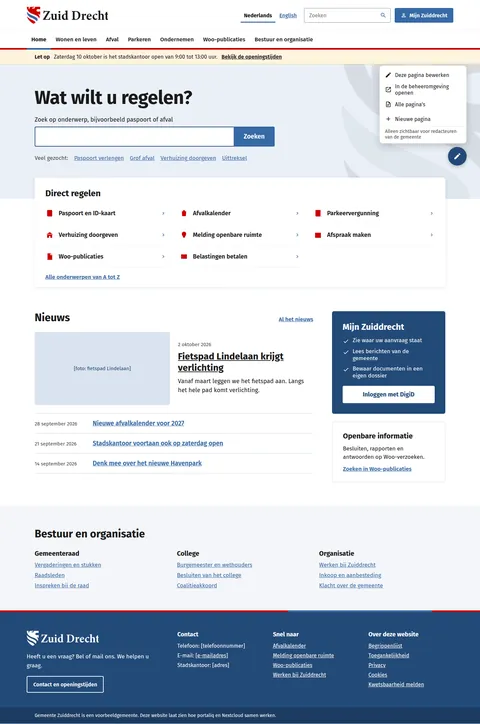
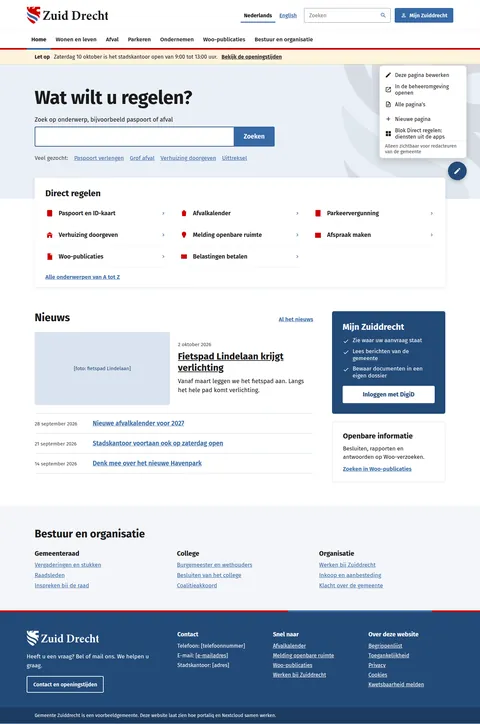
feat(screens): search boards name their portaliq rows; Zoeken pages with a shareable link, Publicatie shows every property
Zoeken: page links carry the query and page number with a Pagina x van y line, and the organisation filter says the search covers the partner organisations' publications. Publicatie: the property list grows with a reference, a decision date, a source page (a web address rendered as a link) and a related publication. Home: the editor menu names the Direct regelen block as the contributed-services block. The notes of Zoeken, ZoekenGeenTreffers, Publicatie and Home name the matrix rows and specs they draw.

Portaliq coverage matrix, gap list (b), lane pt-boards-b.

Changed region(s): [[0.7812, 0.1519, 0.9688, 0.2735]]

diff --git a/preview/screens/boards/Zoeken.html b/preview/screens/boards/Zoeken.html
@@ -126,6 +126,7 @@ footer a{color:#ffffff}footer a:hover{color:#dfe8f3}
         </fieldset>
         <fieldset style="border: 0; margin: 0; padding: 0; display: flex; flex-direction: column; gap: 10px">
           <legend style="font-size: 18px; font-weight: 600; margin-bottom: 8px">Organisatie</legend>
+          <span style="font-size: 15px; color: var(--sc-site-muted, #4a4a4a)">U zoekt in de publicaties van de gemeente en van de organisaties waarmee zij samenwerkt.</span>
           
             <label style="display: flex; gap: 10px; align-items: center; font-size: 17px"><input type="checkbox" style="width: 22px; height: 22px; accent-color: var(--sc-primary, #3669a5)"> Gemeente Zuiddrecht (10)</label>
           
@@ -214,9 +215,11 @@ footer a{color:#ffffff}footer a:hover{color:#dfe8f3}
           
         </ul>
         <nav aria-label="Paginering" style="display: flex; gap: 8px; flex-wrap: wrap">
-          <a href="#" aria-current="page" style="min-width: 44px; height: 44px; display: inline-flex; align-items: center; justify-content: center; border-radius: 4px; background: var(--sc-primary, #3669a5); color: #ffffff; font-weight: 600; text-decoration: none">1</a>
-          <a href="#" style="min-width: 44px; height: 44px; display: inline-flex; align-items: center; justify-content: center; border-radius: 4px; border: 1px solid var(--sc-site-border, #d3d8df); font-weight: 600">2</a>
-          <a href="#" style="min-width: 44px; height: 44px; padding: 0 14px; display: inline-flex; align-items: center; justify-content: center; border-radius: 4px; border: 1px solid var(--sc-site-border, #d3d8df); font-weight: 600">Volgende</a>
+          <a href="?q=fietspad+Lindelaan&amp;pagina=1" aria-current="page" style="min-width: 44px; height: 44px; display: inline-flex; align-items: center; justify-content: center; border-radius: 4px; background: var(--sc-primary, #3669a5); color: #ffffff; font-weight: 600; text-decoration: none">1</a>
+          <a href="?q=fietspad+Lindelaan&amp;pagina=2" style="min-width: 44px; height: 44px; display: inline-flex; align-items: center; justify-content: center; border-radius: 4px; border: 1px solid var(--sc-site-border, #d3d8df); font-weight: 600">2</a>
+          <a href="?q=fietspad+Lindelaan&amp;pagina=3" style="min-width: 44px; height: 44px; display: inline-flex; align-items: center; justify-content: center; border-radius: 4px; border: 1px solid var(--sc-site-border, #d3d8df); font-weight: 600">3</a>
+          <a href="?q=fietspad+Lindelaan&amp;pagina=2" style="min-width: 44px; height: 44px; padding: 0 14px; display: inline-flex; align-items: center; justify-content: center; border-radius: 4px; border: 1px solid var(--sc-site-border, #d3d8df); font-weight: 600">Volgende</a>
+          <span style="align-self: center; font-size: 15px; color: var(--sc-site-muted, #4a4a4a)">Pagina 1 van 3. De link van deze pagina kunt u bewaren of delen.</span>
         </nav>
         <form aria-labelledby="fb" style="margin-top: 16px; padding: 24px; border-radius: 6px; background: var(--sc-site-ground, #f4f6f9); display: flex; flex-direction: column; gap: 14px">
           <fieldset style="border: 0; margin: 0; padding: 0; display: flex; flex-wrap: wrap; align-items: center; gap: 12px 20px">

diff --git a/screens-src/zuiddrecht/Zoeken.dc.html b/screens-src/zuiddrecht/Zoeken.dc.html
@@ -48,6 +48,7 @@ a{color:#3669a5}a:hover{color:#234a78}
         </fieldset>
         <fieldset style="border: 0; margin: 0; padding: 0; display: flex; flex-direction: column; gap: 10px">
           <legend style="font-size: 18px; font-weight: 600; margin-bottom: 8px">Organisatie</legend>
+          <span style="font-size: 15px; color: #4a4a4a">U zoekt in de publicaties van de gemeente en van de organisaties waarmee zij samenwerkt.</span>
           <sc-for list="{{ orgs }}" as="o" hint-placeholder-count="3">
             <label style="display: flex; gap: 10px; align-items: center; font-size: 17px"><input type="checkbox" style="width: 22px; height: 22px; accent-color: #3669a5"> {{ o }}</label>
           </sc-for>
@@ -88,9 +89,11 @@ a{color:#3669a5}a:hover{color:#234a78}
           </sc-for>
         </ul>
         <nav aria-label="Paginering" style="display: flex; gap: 8px; flex-wrap: wrap">
-          <a href="#" aria-current="page" style="min-width: 44px; height: 44px; display: inline-flex; align-items: center; justify-content: center; border-radius: 4px; background: #3669a5; color: #ffffff; font-weight: 600; text-decoration: none">1</a>
-          <a href="#" style="min-width: 44px; height: 44px; display: inline-flex; align-items: center; justify-content: center; border-radius: 4px; border: 1px solid #d3d8df; font-weight: 600">2</a>
-          <a href="#" style="min-width: 44px; height: 44px; padding: 0 14px; display: inline-flex; align-items: center; justify-content: center; border-radius: 4px; border: 1px solid #d3d8df; font-weight: 600">Volgende</a>
+          <a href="?q=fietspad+Lindelaan&amp;pagina=1" aria-current="page" style="min-width: 44px; height: 44px; display: inline-flex; align-items: center; justify-content: center; border-radius: 4px; background: #3669a5; color: #ffffff; font-weight: 600; text-decoration: none">1</a>
+          <a href="?q=fietspad+Lindelaan&amp;pagina=2" style="min-width: 44px; height: 44px; display: inline-flex; align-items: center; justify-content: center; border-radius: 4px; border: 1px solid #d3d8df; font-weight: 600">2</a>
+          <a href="?q=fietspad+Lindelaan&amp;pagina=3" style="min-width: 44px; height: 44px; display: inline-flex; align-items: center; justify-content: center; border-radius: 4px; border: 1px solid #d3d8df; font-weight: 600">3</a>
+          <a href="?q=fietspad+Lindelaan&amp;pagina=2" style="min-width: 44px; height: 44px; padding: 0 14px; display: inline-flex; align-items: center; justify-content: center; border-radius: 4px; border: 1px solid #d3d8df; font-weight: 600">Volgende</a>
+          <span style="align-self: center; font-size: 15px; color: #4a4a4a">Pagina 1 van 3. De link van deze pagina kunt u bewaren of delen.</span>
         </nav>
         <form aria-labelledby="fb" style="margin-top: 16px; padding: 24px; border-radius: 6px; background: #f4f6f9; display: flex; flex-direction: column; gap: 14px">
           <fieldset style="border: 0; margin: 0; padding: 0; display: flex; flex-wrap: wrap; align-items: center; gap: 12px 20px">

diff --git a/preview/screens/boards/Home.html b/preview/screens/boards/Home.html
@@ -304,6 +304,7 @@ footer a{color:#ffffff}footer a:hover{color:#dfe8f3}
       <li role="none"><a role="menuitem" href="PtPagina.html" style="display: flex; align-items: center; gap: 10px; height: 44px; padding: 0 16px; color: var(--sc-site-ink, #1a1a1a); text-decoration: none; font-size: 16px"><svg width="20" height="20" viewbox="0 0 24 24" fill="currentColor" aria-hidden="true" style="flex: none"><path d="M14,3V5H17.59L7.76,14.83L9.17,16.24L19,6.41V10H21V3M19,19H5V5H12V3H5C3.89,3 3,3.9 3,5V19A2,2 0 0,0 5,21H19A2,2 0 0,0 21,19V12H19V19Z"></path></svg>In de beheeromgeving openen</a></li>
       <li role="none"><a role="menuitem" href="PtPortal.html" style="display: flex; align-items: center; gap: 10px; height: 44px; padding: 0 16px; color: var(--sc-site-ink, #1a1a1a); text-decoration: none; font-size: 16px"><svg width="20" height="20" viewbox="0 0 24 24" fill="currentColor" aria-hidden="true" style="flex: none"><path d="M6,2A2,2 0 0,0 4,4V20A2,2 0 0,0 6,22H18A2,2 0 0,0 20,20V8L14,2H6M6,4H13V9H18V20H6V4M8,12V14H16V12H8M8,16V18H13V16H8Z"></path></svg>Alle pagina's</a></li>
       <li role="none"><a role="menuitem" href="Editor.html" style="display: flex; align-items: center; gap: 10px; height: 44px; padding: 0 16px; color: var(--sc-site-ink, #1a1a1a); text-decoration: none; font-size: 16px"><svg width="20" height="20" viewbox="0 0 24 24" fill="currentColor" aria-hidden="true" style="flex: none"><path d="M19,13H13V19H11V13H5V11H11V5H13V11H19V13Z"></path></svg>Nieuwe pagina</a></li>
+      <li role="none"><a role="menuitem" href="Editor.html" style="display: flex; align-items: center; gap: 10px; height: 44px; padding: 0 16px; color: var(--sc-site-ink, #1a1a1a); text-decoration: none; font-size: 16px"><svg width="20" height="20" viewbox="0 0 24 24" fill="currentColor" aria-hidden="true" style="flex: none"><path d="M3,3H11V11H3V3M13,3H21V11H13V3M3,13H11V21H3V13M13,13H21V21H13V13Z"></path></svg>Blok Direct regelen: diensten uit de apps</a></li>
       <li role="none" style="padding: 6px 16px 4px; border-top: 1px solid var(--sc-work-line, #e4e6ea); font-size: 14px; color: var(--sc-site-muted, #4a4a4a)">Alleen zichtbaar voor redacteuren van de gemeente</li>
     </ul>
     <button type="button" aria-label="Deze site bewerken" aria-expanded="true" style="width: 56px; height: 56px; border: 0; border-radius: 28px; background: var(--sc-primary-deep, #234a78); color: #ffffff; display: flex; align-items: center; justify-content: center; box-shadow: 0 4px 12px rgba(0,0,0,0.25)"><svg width="24" height="24" viewbox="0 0 24 24" fill="currentColor" aria-hidden="true" style="flex: none"><path d="M20.71,7.04C21.1,6.65 21.1,6 20.71,5.63L18.37,3.29C18,2.9 17.35,2.9 16.96,3.29L15.12,5.12L18.87,8.87M3,17.25V21H6.75L17.81,9.93L14.06,6.18L3,17.25Z"></path></svg></button>

diff --git a/screens-src/zuiddrecht/Home.dc.html b/screens-src/zuiddrecht/Home.dc.html
@@ -118,6 +118,7 @@ a{color:#3669a5}a:hover{color:#234a78}
       <li role="none"><a role="menuitem" href="PtPagina.dc.html" style="display: flex; align-items: center; gap: 10px; height: 44px; padding: 0 16px; color: #1a1a1a; text-decoration: none; font-size: 16px"><svg width="20" height="20" viewBox="0 0 24 24" fill="currentColor" aria-hidden="true" style="flex: none"><path d="M14,3V5H17.59L7.76,14.83L9.17,16.24L19,6.41V10H21V3M19,19H5V5H12V3H5C3.89,3 3,3.9 3,5V19A2,2 0 0,0 5,21H19A2,2 0 0,0 21,19V12H19V19Z"></path></svg>In de beheeromgeving openen</a></li>
       <li role="none"><a role="menuitem" href="PtPortal.dc.html" style="display: flex; align-items: center; gap: 10px; height: 44px; padding: 0 16px; color: #1a1a1a; text-decoration: none; font-size: 16px"><svg width="20" height="20" viewBox="0 0 24 24" fill="currentColor" aria-hidden="true" style="flex: none"><path d="M6,2A2,2 0 0,0 4,4V20A2,2 0 0,0 6,22H18A2,2 0 0,0 20,20V8L14,2H6M6,4H13V9H18V20H6V4M8,12V14H16V12H8M8,16V18H13V16H8Z"></path></svg>Alle pagina's</a></li>
       <li role="none"><a role="menuitem" href="Editor.dc.html" style="display: flex; align-items: center; gap: 10px; height: 44px; padding: 0 16px; color: #1a1a1a; text-decoration: none; font-size: 16px"><svg width="20" height="20" viewBox="0 0 24 24" fill="currentColor" aria-hidden="true" style="flex: none"><path d="M19,13H13V19H11V13H5V11H11V5H13V11H19V13Z"></path></svg>Nieuwe pagina</a></li>
+      <li role="none"><a role="menuitem" href="Editor.dc.html" style="display: flex; align-items: center; gap: 10px; height: 44px; padding: 0 16px; color: #1a1a1a; text-decoration: none; font-size: 16px"><svg width="20" height="20" viewBox="0 0 24 24" fill="currentColor" aria-hidden="true" style="flex: none"><path d="M3,3H11V11H3V3M13,3H21V11H13V3M3,13H11V21H3V13M13,13H21V21H13V13Z"></path></svg>Blok Direct regelen: diensten uit de apps</a></li>
       <li role="none" style="padding: 6px 16px 4px; border-top: 1px solid #e4e6ea; font-size: 14px; color: #4a4a4a">Alleen zichtbaar voor redacteuren van de gemeente</li>
     </ul>
     <button type="button" aria-label="Deze site bewerken" aria-expanded="true" style="width: 56px; height: 56px; border: 0; border-radius: 28px; background: #234a78; color: #ffffff; display: flex; align-items: center; justify-content: center; box-shadow: 0 4px 12px rgba(0,0,0,0.25)"><svg width="24" height="24" viewBox="0 0 24 24" fill="currentColor" aria-hidden="true" style="flex: none"><path d="M20.71,7.04C21.1,6.65 21.1,6 20.71,5.63L18.37,3.29C18,2.9 17.35,2.9 16.96,3.29L15.12,5.12L18.87,8.87M3,17.25V21H6.75L17.81,9.93L14.06,6.18L3,17.25Z"></path></svg></button>

diff --git a/preview/screens/boards/Publicatie.html b/preview/screens/boards/Publicatie.html
@@ -98,6 +98,10 @@ footer a{color:#ffffff}footer a:hover{color:#dfe8f3}
         <dt style="font-weight: 600">Informatiecategorie</dt><dd style="margin: 0">Woo-verzoeken en -besluiten</dd>
         <dt style="font-weight: 600">Onderwerp</dt><dd style="margin: 0">Verkeer en vervoer</dd>
         <dt style="font-weight: 600">Verantwoordelijk</dt><dd style="margin: 0">College van burgemeester en wethouders</dd>
+        <dt style="font-weight: 600">Kenmerk</dt><dd style="margin: 0">WOO-2026-0082</dd>
+        <dt style="font-weight: 600">Besluitdatum</dt><dd style="margin: 0">2 oktober 2026</dd>
+        <dt style="font-weight: 600">Bronpagina</dt><dd style="margin: 0"><a href="https://www.zuiddrecht.nl/fietspad-lindelaan">www.zuiddrecht.nl/fietspad-lindelaan</a></dd>
+        <dt style="font-weight: 600">Verwijst naar</dt><dd style="margin: 0"><a href="Publicatie.html">Raadsvoorstel fietspad Lindelaan</a></dd>
       </dl>
       <section aria-labelledby="docs" style="display: flex; flex-direction: column; gap: 14px">
         <h2 id="docs" style="margin: 0; font-size: 28px; font-weight: 700">Documenten</h2>

diff --git a/screens-src/zuiddrecht/Publicatie.dc.html b/screens-src/zuiddrecht/Publicatie.dc.html
@@ -28,6 +28,10 @@ a{color:#3669a5}a:hover{color:#234a78}
         <dt style="font-weight: 600">Informatiecategorie</dt><dd style="margin: 0">Woo-verzoeken en -besluiten</dd>
         <dt style="font-weight: 600">Onderwerp</dt><dd style="margin: 0">Verkeer en vervoer</dd>
         <dt style="font-weight: 600">Verantwoordelijk</dt><dd style="margin: 0">College van burgemeester en wethouders</dd>
+        <dt style="font-weight: 600">Kenmerk</dt><dd style="margin: 0">WOO-2026-0082</dd>
+        <dt style="font-weight: 600">Besluitdatum</dt><dd style="margin: 0">2 oktober 2026</dd>
+        <dt style="font-weight: 600">Bronpagina</dt><dd style="margin: 0"><a href="https://www.zuiddrecht.nl/fietspad-lindelaan">www.zuiddrecht.nl/fietspad-lindelaan</a></dd>
+        <dt style="font-weight: 600">Verwijst naar</dt><dd style="margin: 0"><a href="Publicatie.dc.html">Raadsvoorstel fietspad Lindelaan</a></dd>
       </dl>
       <section aria-labelledby="docs" style="display: flex; flex-direction: column; gap: 14px">
         <h2 id="docs" style="margin: 0; font-size: 28px; font-weight: 700">Documenten</h2>
